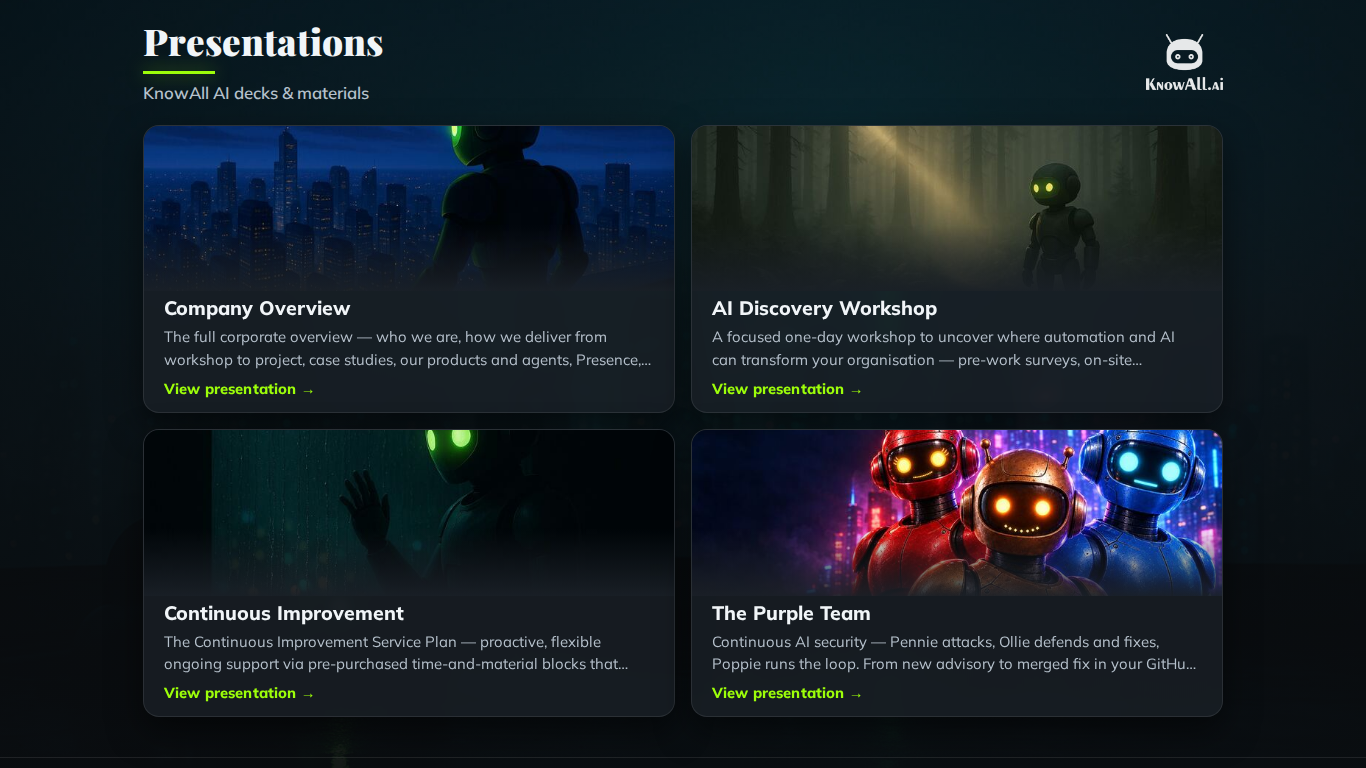
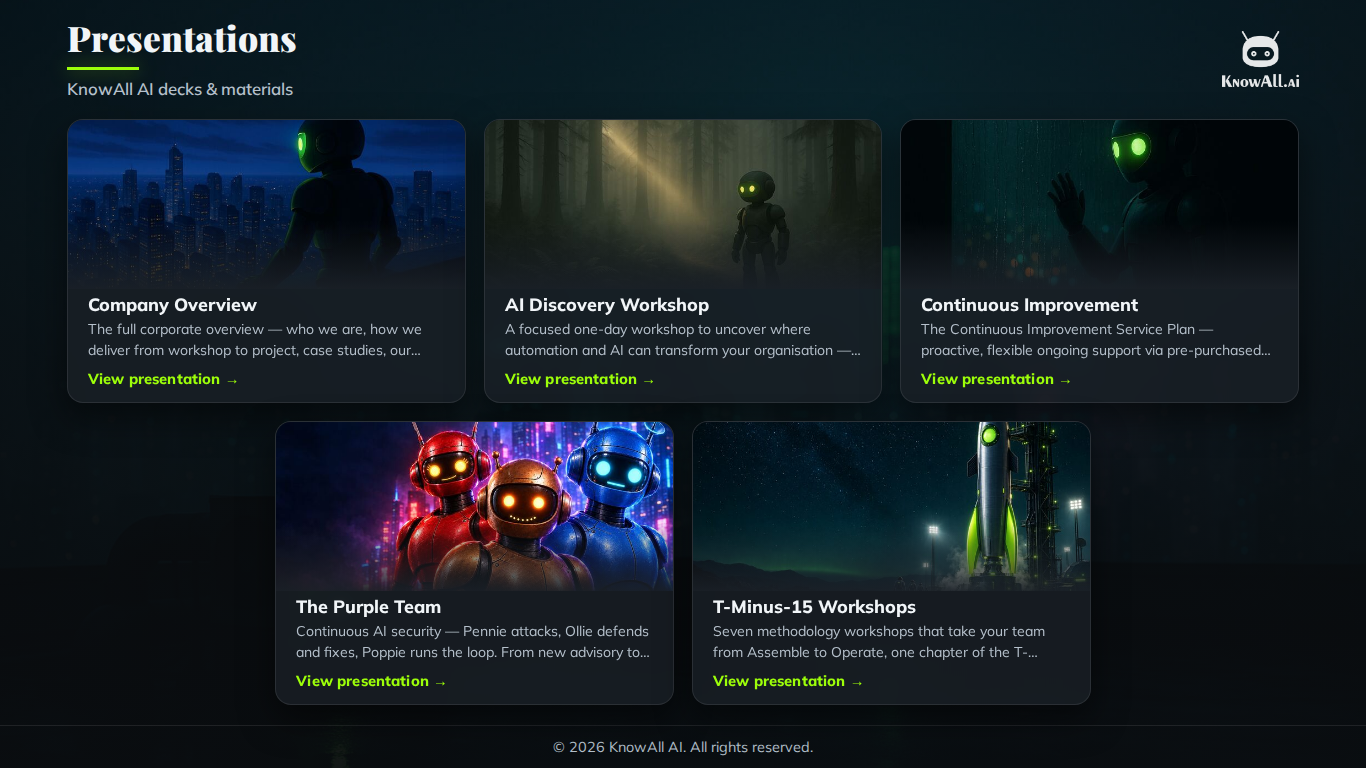
feat(presentations): fit every deck on screen; drop the Assemble break-out lab (#272)
* feat(presentations): fit every deck on screen; drop the Assemble break-out lab

The presentations index now lays the five decks out three-across on
desktops, with the page exactly one viewport tall and the thumbnails
sized to fill what the header and footer leave, so nothing needs a
scroll. A short last row is centred. Phones and short windows keep the
scrolling layout.

The T-Minus-15 workshops deck no longer offers a break-out lab for
W-M0 Assemble: its slide, the labs list and the overview copy now say
the labs run after Plan to Operate.

* docs(screenshots): before/after of the Assemble slide and break-out labs slide

---------

Changed region(s): [[0.0307, 0.0312, 0.9224, 0.9375], [0.8302, 0.0312, 0.9531, 0.125], [0.3997, 0.9688, 0.5842, 1.0]]

diff --git a/public/presentations/index.html b/public/presentations/index.html
@@ -69,7 +69,7 @@
       }
 
       .band-inner {
-        max-width: 1080px;
+        max-width: 1232px;
         margin: 0 auto;
         display: flex;
         align-items: center;
@@ -113,13 +113,13 @@
       main {
         flex: 1;
         width: 100%;
-        /* 1080px of content, matching the header, so the 2×2 grid fits */
-        max-width: 1128px;
+        /* 1232px of content, matching the header */
+        max-width: 1280px;
         margin: 0 auto;
         padding: 18px 24px 40px;
       }
 
-      /* Four decks in a 2×2 grid, sized so both rows sit above the fold. */
+      /* Two columns by default; desktops get the fit-to-screen grid below. */
       .presentations-grid {
         display: grid;
         grid-template-columns: repeat(2, minmax(0, 1fr));
@@ -238,14 +238,81 @@
         font-size: 0.9rem;
       }
 
-      /* laptop screens (up to 960px tall): keep all four decks above the fold */
-      @media (min-width: 1081px) and (max-height: 960px) {
+      /* Desktops: every deck on screen without scrolling. The page is exactly
+         one viewport tall, the grid takes whatever height the header and
+         footer leave, and the thumbnails stretch or shrink to fill it. Three
+         columns on a six-track grid so a short last row can be centred. */
+      @media (min-width: 900px) and (min-height: 560px) {
+        body {
+          height: 100vh;
+          height: 100dvh;
+          overflow: hidden;
+        }
+
+        main {
+          display: flex;
+          flex-direction: column;
+          min-height: 0;
+          padding-bottom: 20px;
+        }
+
+        .presentations-grid {
+          flex: 1;
+          min-height: 0;
+          grid-template-columns: repeat(6, minmax(0, 1fr));
+          grid-auto-rows: minmax(0, 1fr);
+          gap: 18px;
+        }
+
+        .presentation-card {
+          grid-column: span 2;
+          min-height: 0;
+        }
+
+        /* last row of two: centre it (cards 4 and 5 of 5, 7 and 8 of 8, ...) */
+        .presentation-card:nth-child(3n + 1):nth-last-child(2) {
+          grid-column: 2 / span 2;
+        }
+
+        /* last row of one: centre it */
+        .presentation-card:nth-child(3n + 1):last-child {
+          grid-column: 3 / span 2;
+        }
+
+        .thumb {
+          flex: 1 1 0;
+          min-height: 72px;
+          aspect-ratio: auto;
+        }
+
+        .card-body {
+          flex: 0 0 auto;
+          padding: 4px 20px 14px;
+        }
+
+        .presentation-card h2 {
+          font-size: 1.12rem;
+          margin-bottom: 4px;
+        }
+
+        .presentation-card p {
+          font-size: 0.88rem;
+          margin-bottom: 8px;
+        }
+
+        .footer {
+          padding: 12px 24px;
+        }
+      }
+
+      /* shorter desktop screens: a slimmer header leaves more room for thumbnails */
+      @media (min-width: 900px) and (max-height: 960px) {
         .band {
-          padding: 22px 24px 10px;
+          padding: 20px 24px 8px;
         }
 
         .band h1 {
-          font-size: 2.3rem;
+          font-size: 2.2rem;
         }
 
         .band h1::after {
@@ -262,29 +329,6 @@
 
         main {
           padding-top: 12px;
-        }
-
-        .presentations-grid {
-          gap: 16px;
-        }
-
-        .thumb {
-          aspect-ratio: 16 / 6;
-        }
-
-        .card-body {
-          padding: 4px 20px 14px;
-        }
-
-        .presentation-card p {
-          margin-bottom: 8px;
-        }
-      }
-
-      /* 768px-tall screens: shorter thumbnails still */
-      @media (min-width: 1081px) and (max-height: 780px) {
-        .thumb {
-          aspect-ratio: 16 / 5;
         }
       }
 

diff --git a/presentations-src/tminus15-workshops.html b/presentations-src/tminus15-workshops.html
@@ -444,7 +444,7 @@
             <div class="tm-tracks">
               <div class="tm-track">
                 <h3><svg class="ic" aria-hidden="true"><use href="icons.svg#i-rocket" /></svg>Methodology workshops</h3>
-                <p class="tm-rule">One workshop for each stage of the T-Minus-15 lifecycle, each built on a chapter of the book. Typically half a day each, in person or remote, with an optional two-hour break-out lab.</p>
+                <p class="tm-rule">One workshop for each stage of the T-Minus-15 lifecycle, each built on a chapter of the book. Typically half a day each, in person or remote. Plan to Operate each add an optional two-hour break-out lab.</p>
                 <ol>
                   <li><span class="code">W-M0</span><span><span class="phase">ASSEMBLE</span>The Avengers of Agile</span></li>
                   <li><span class="code">W-M1</span><span><span class="phase">PLAN</span>Plotting the course</span></li>
@@ -486,9 +486,8 @@
             <div class="tm-tracks">
               <div class="tm-track">
                 <h3><svg class="ic" aria-hidden="true"><use href="icons.svg#i-flask-conical" /></svg>Break-out labs</h3>
-                <p class="tm-rule">Optional, two hours each, after a methodology workshop. Each organisation&rsquo;s team takes one simple use case of its own through the whole countdown.</p>
+                <p class="tm-rule">Optional, two hours each, after the Plan to Operate workshops. Each organisation&rsquo;s team takes one simple use case of its own through the whole countdown.</p>
                 <ol class="tm-labs">
-                  <li><span class="code">W-M0</span><span><span class="phase">ASSEMBLE</span>Build your crew</span></li>
                   <li><span class="code">W-M1</span><span><span class="phase">PLAN</span>Plan a sprint</span></li>
                   <li><span class="code">W-M2</span><span><span class="phase">PREP</span>Build a backlog</span></li>
                   <li><span class="code">W-M3</span><span><span class="phase">DESIGN</span>Brand guidelines</span></li>
@@ -558,7 +557,6 @@
           "title": "The Avengers of Agile",
           "duration": "Half-day workshop",
           "outcomes": "A shared understanding of Agile, Scrum, Kanban and DevOps, and of the roles, values and habits of a squad that ships.",
-          "breakout": { "title": "Build your crew", "detail": "map your own team to the countdown&rsquo;s stages, roles and agents, and draft a working agreement." },
           "subtitle": "Assembling a cross-functional squad that delivers results",
           "books": [{"title": "T-Minus-15: Secrets of an Elite DevOps Team", "url": "https://github.com/T-Minus-15/book"}],
           "audience": "The whole delivery team &mdash; product owners, analysts, designers, developers, testers and operations &mdash; plus the managers and sponsors who support them.",

diff --git a/public/presentations/tminus15-workshops.html b/public/presentations/tminus15-workshops.html
@@ -468,7 +468,7 @@
             <div class="tm-tracks">
               <div class="tm-track">
                 <h3><svg class="ic" aria-hidden="true"><use href="icons.svg#i-rocket" /></svg>Methodology workshops</h3>
-                <p class="tm-rule">One workshop for each stage of the T-Minus-15 lifecycle, each built on a chapter of the book. Typically half a day each, in person or remote, with an optional two-hour break-out lab.</p>
+                <p class="tm-rule">One workshop for each stage of the T-Minus-15 lifecycle, each built on a chapter of the book. Typically half a day each, in person or remote. Plan to Operate each add an optional two-hour break-out lab.</p>
                 <ol>
                   <li><span class="code">W-M0</span><span><span class="phase">ASSEMBLE</span>The Avengers of Agile</span></li>
                   <li><span class="code">W-M1</span><span><span class="phase">PLAN</span>Plotting the course</span></li>
@@ -510,9 +510,8 @@
             <div class="tm-tracks">
               <div class="tm-track">
                 <h3><svg class="ic" aria-hidden="true"><use href="icons.svg#i-flask-conical" /></svg>Break-out labs</h3>
-                <p class="tm-rule">Optional, two hours each, after a methodology workshop. Each organisation&rsquo;s team takes one simple use case of its own through the whole countdown.</p>
+                <p class="tm-rule">Optional, two hours each, after the Plan to Operate workshops. Each organisation&rsquo;s team takes one simple use case of its own through the whole countdown.</p>
                 <ol class="tm-labs">
-                  <li><span class="code">W-M0</span><span><span class="phase">ASSEMBLE</span>Build your crew</span></li>
                   <li><span class="code">W-M1</span><span><span class="phase">PLAN</span>Plan a sprint</span></li>
                   <li><span class="code">W-M2</span><span><span class="phase">PREP</span>Build a backlog</span></li>
                   <li><span class="code">W-M3</span><span><span class="phase">DESIGN</span>Brand guidelines</span></li>
@@ -628,10 +627,6 @@
               <div class="ws-block">
                 <h3 class="ws-label"><svg class="ic" aria-hidden="true"><use href="icons.svg#i-graduation-cap" /></svg>You leave with</h3>
                 <p>A shared understanding of Agile, Scrum, Kanban and DevOps, and of the roles, values and habits of a squad that ships.</p>
-              </div>
-              <div class="ws-block">
-                <h3 class="ws-label"><svg class="ic" aria-hidden="true"><use href="icons.svg#i-flask-conical" /></svg>Optional break-out &middot; 2 hours</h3>
-                <p><strong>Build your crew:</strong> map your own team to the countdown&rsquo;s stages, roles and agents, and draft a working agreement.</p>
               </div>
             </div>
           </div>
